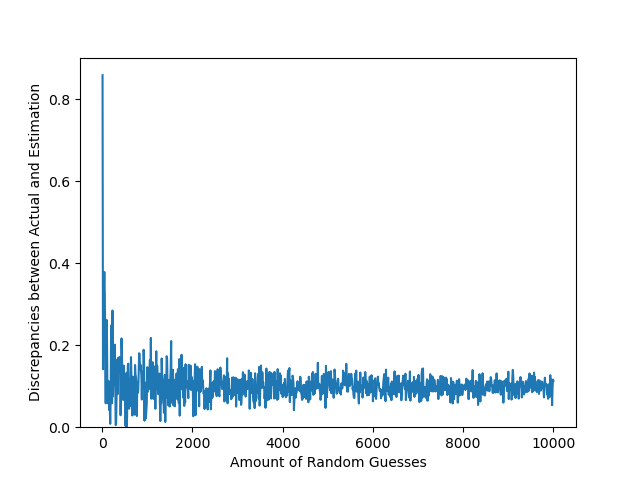
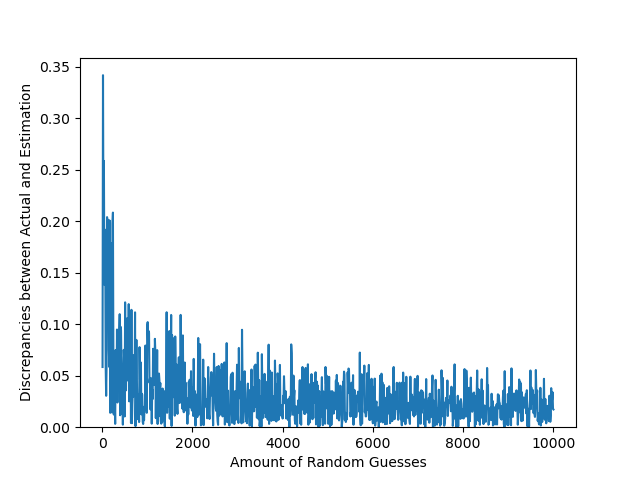
Changed answer to include accuracy increase from choosing a shape with a larger radius.

diff --git a/Class_18_Classwork/Homework4.py b/Class_18_Classwork/Homework4.py
@@ -37,11 +37,11 @@ def monte_carlo(N, radius=1):
 
 # Function to plot the estimation of the value of pi using N from 10-1000
 # and a semicircle with a radius of 4
-def plot_estimation():
+def plot_estimation(N=1000, radius=4):
     # define radius of semicircle and bounding area
-    radius = 10
+
     bound_area = (radius*2)*radius
-    x = np.arange(10, 10010, 10)
+    x = np.arange(10, N+10, 10)
     x = x.astype(int)
     y = np.array([])
     for i in range(np.size(x)):
@@ -81,7 +81,10 @@ def main():
     # # radius of this semicircle is 2
     # pi_est = (area / 2)
 
-    plot_estimation()
+    plot_estimation(10000)
+    # By increasing the area of the shape that I measured, the accuracy of the
+    # estimation increased significantly
+    # plot_estimation(10000, 100)
 
 
 main()
@@ -96,4 +99,8 @@ main()
 # estimation is not only a function of the amount of data points used, but is also based on the
 # values of the random numbers that are generated. If the random numbers that are generated tend
 # more towards values that are below the function curve, then the value of pi will be estimated
-# too large and visa versa.
+# too large and visa versa. One way that I found to reduce the difference between the  estimated
+# value and the actual value was to increase the radius of the semi-circle that I was estimating.
+# Increasing the area from 4 to 100 significantly reduced the difference between my estimation and
+# the actual value. This could be due to the random number generator favoring either large numbers
+# or small numbers, and by increasing the radius, all the numbers became large, increasing the accuracy.
